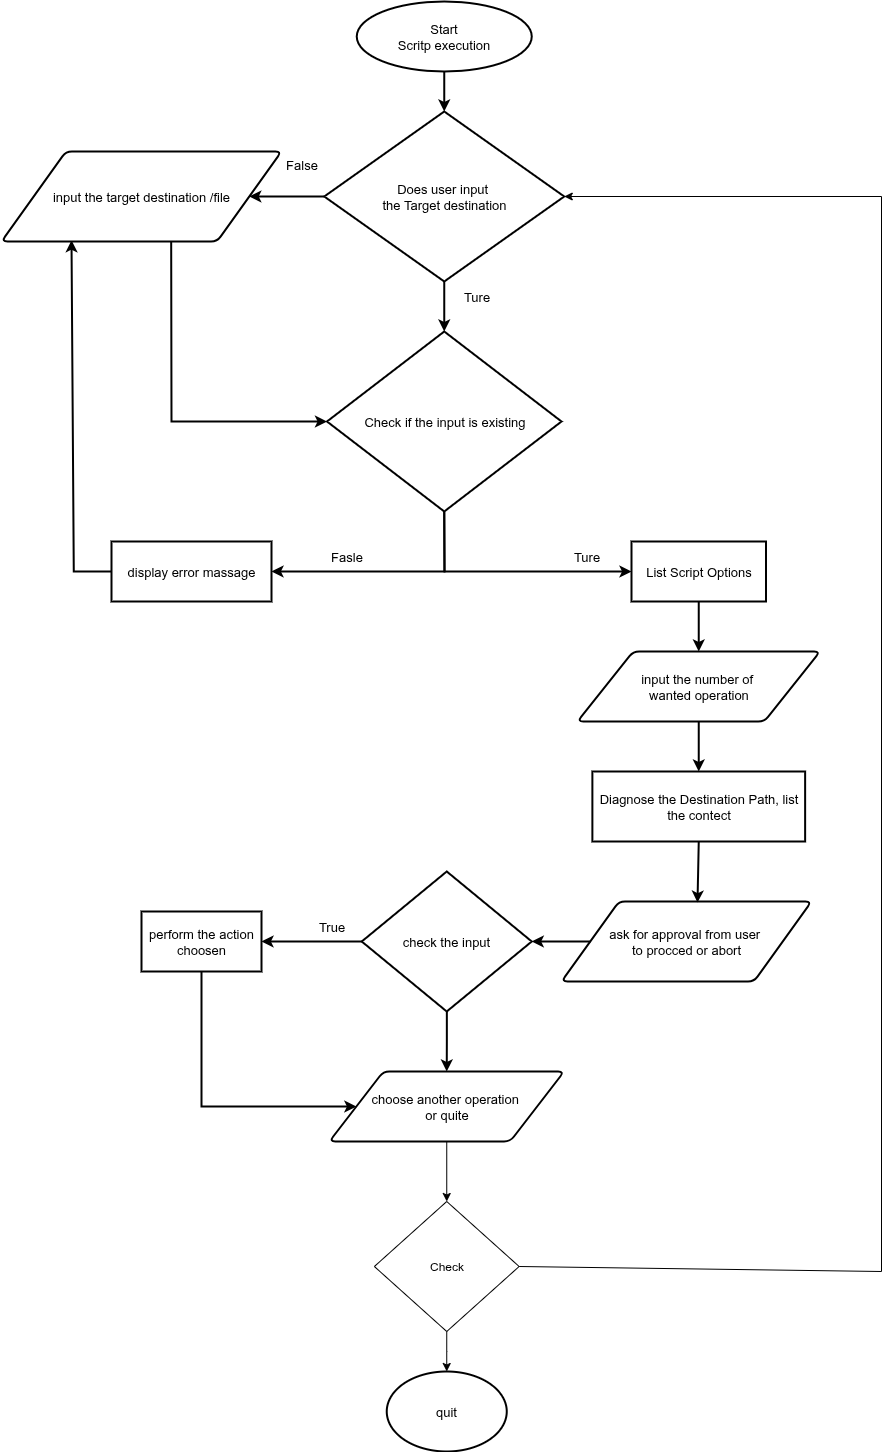
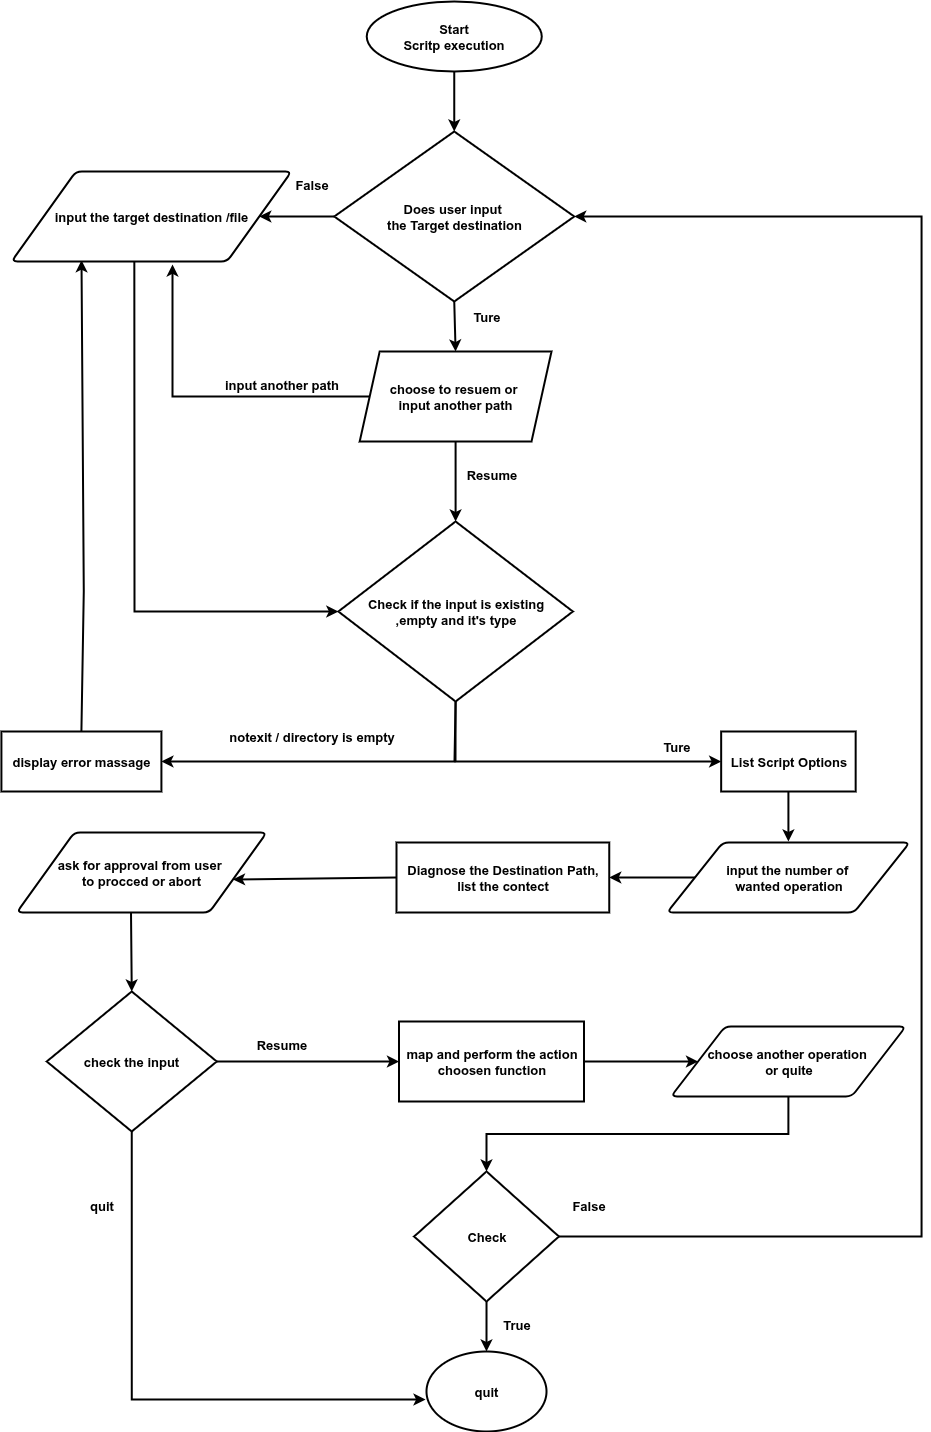
update Flowchart files
update README.md file

diff --git a/README.md b/README.md
@@ -11,4 +11,4 @@ the script provides 3 main actions
 the work flow differ for each options, as some options has a direct following action, and another listed another options and tools
 
 ### Script Flowchart ###
-![Flowchart](./Assets/Flowchart_TCLB.png)
+![Flowchart](./Assets/Flowchart_image.png)
